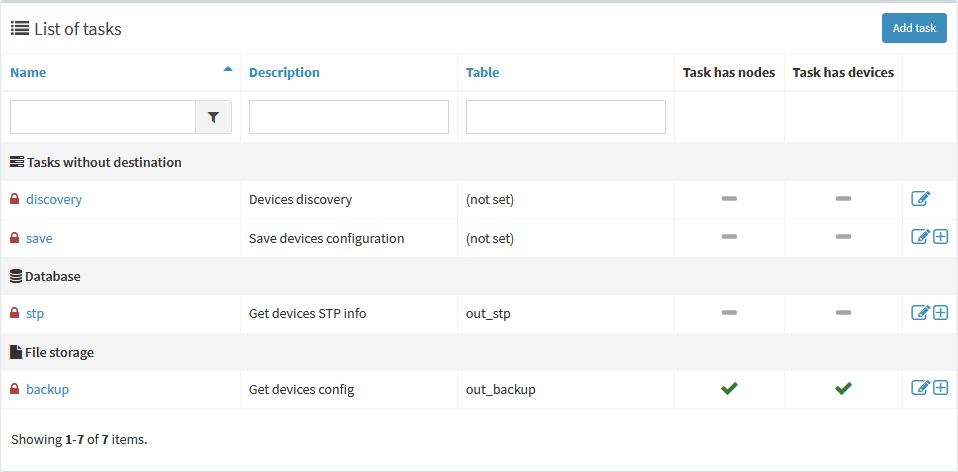
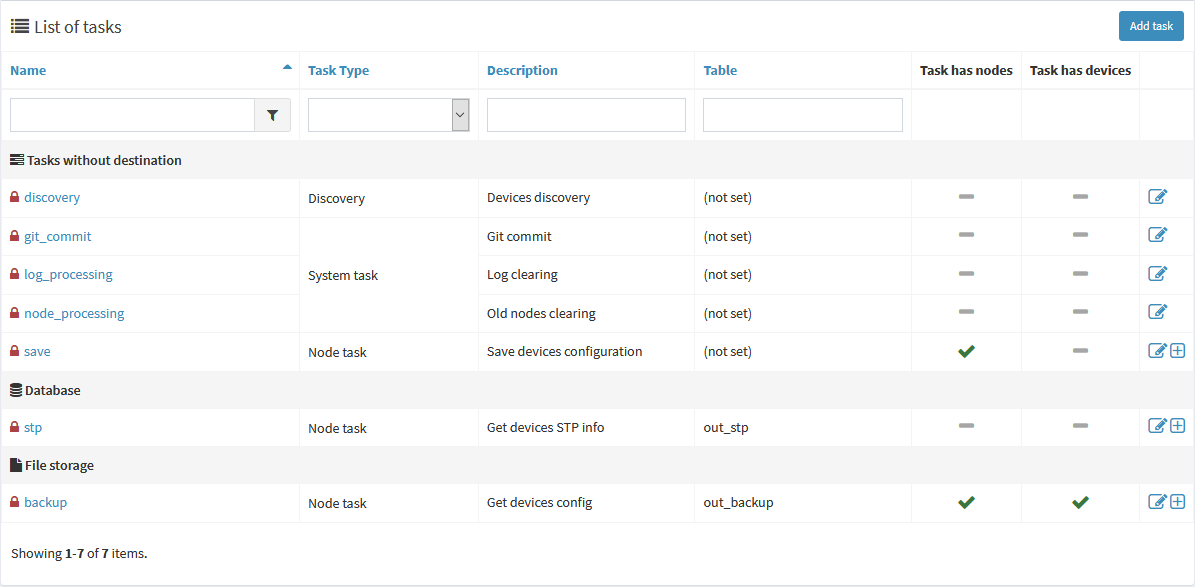
0.1.0 sync

diff --git a/docs/contributors-guide/translation.md b/docs/contributors-guide/translation.md
@@ -1,0 +1,10 @@
+# Transifex
+
+cBackup is built with i18n support and is ready to be translated to any language community requires. As long we are open source product, to maintain convenient way of translation we use [Transifex.com](https://www.transifex.com/cbackup/). We aprreciate any contribution, you don't need to program anything to provide, fix, improve or maintain translation.
+
+# Development tools
+
+To enchance and adjust Yii i18n functionality for Transifex usage, we changed behavior of several built-in commands. Due to slightly different format of message files backend is rewritten, but commands still do what is intended, so you can use `./yii message/extract` to parse sources and extract messages. Extended commands:
+
+* `./yii message/source` generates 'en-US' language files used as a source for Transifex;
+* `./yii message/find-duplicates en-US` looks in specified language folder (en-US by default) and displays if there're any duplicates in message sources in different categories. Please note, that in some case it's ok to have duplicates in different categories, because the same string can be translated in other way because of context.

diff --git a/docs/administrators-guide/tasks.md b/docs/administrators-guide/tasks.md
@@ -12,7 +12,7 @@ node_processing | yes | no | no | Clear outdated nodes which were not online for
 save | yes | yes | yes | Save configuration on nodes, can be useful to additionally secure node from losing unsaved config
 stp | yes | yes | yes | Retrieve STP information from nodes
 
-In the task list you can see all available tasks grouped by destination and to check if there're any assignments exist and to edit or assign them as well:
+In the task list you can see all available tasks grouped by destination and to check if there're any assignments exist and to edit or assign them as well. Please note, that column `Task Type` is displayed only in the list of tasks for information purposes. All custom tasks you create automatically acquire `Node task` type. Creating system task or defining new task type requires diving deeper into development, working with Java daemon and API. Also, task type `Yii command` is assigned to plugin-related tasks only. 
 ![](../assets/task1.png) 
 
 # Assign tasks

diff --git a/docs/administrators-guide/cds.md b/docs/administrators-guide/cds.md
@@ -10,7 +10,7 @@ When you open `System -> Content delivery` it will try to update content listing
 !!! warning
     If you have the similarly-named device or authentication template, you'll see the warning. Remove your device or template and fetch content again. 
     
-By pressing <i class="fa fa-caret-square-o-down"></i> you can look through the code to be fetched to your cBackup. All code is plaing PHP using Yii2 framework notation and specifications. See [developers guide](../developers-guide/architecture.md) for more information.
+By pressing <i class="fa fa-caret-square-o-down"></i> you can look through the code to be fetched to your cBackup. All code is plaing PHP using Yii2 framework notation and specifications. See [developers guide](../contributors-guide/architecture.md) for more information.
 
 # Managing installed entities
 
